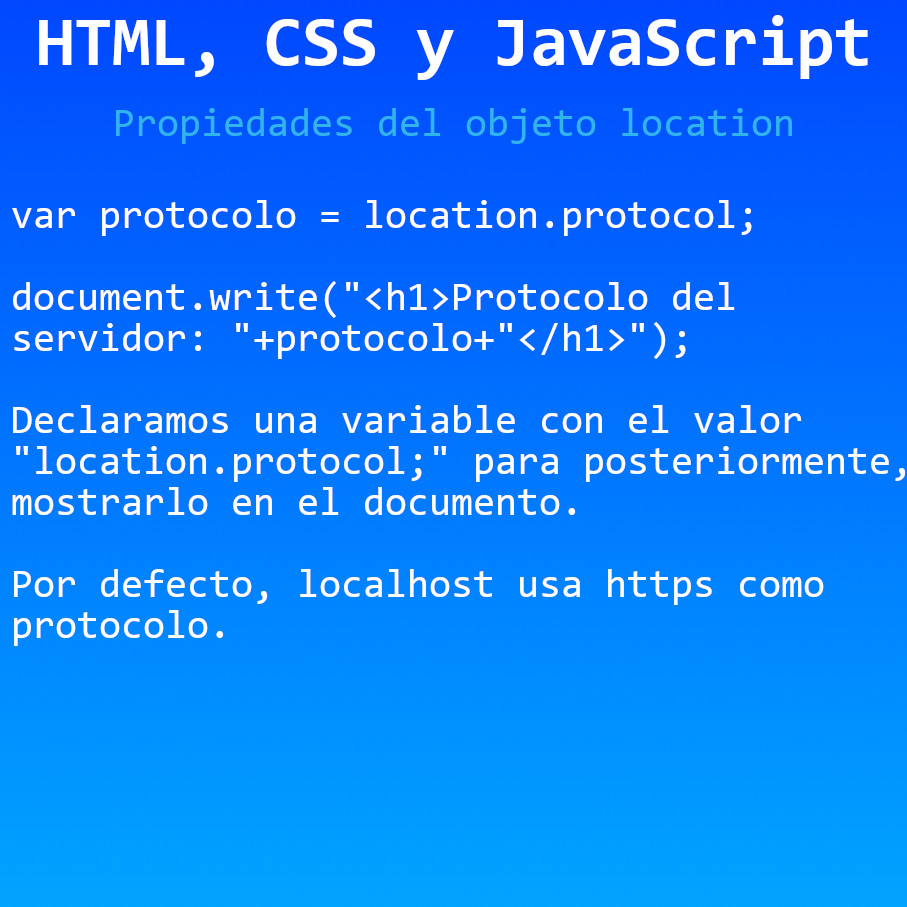
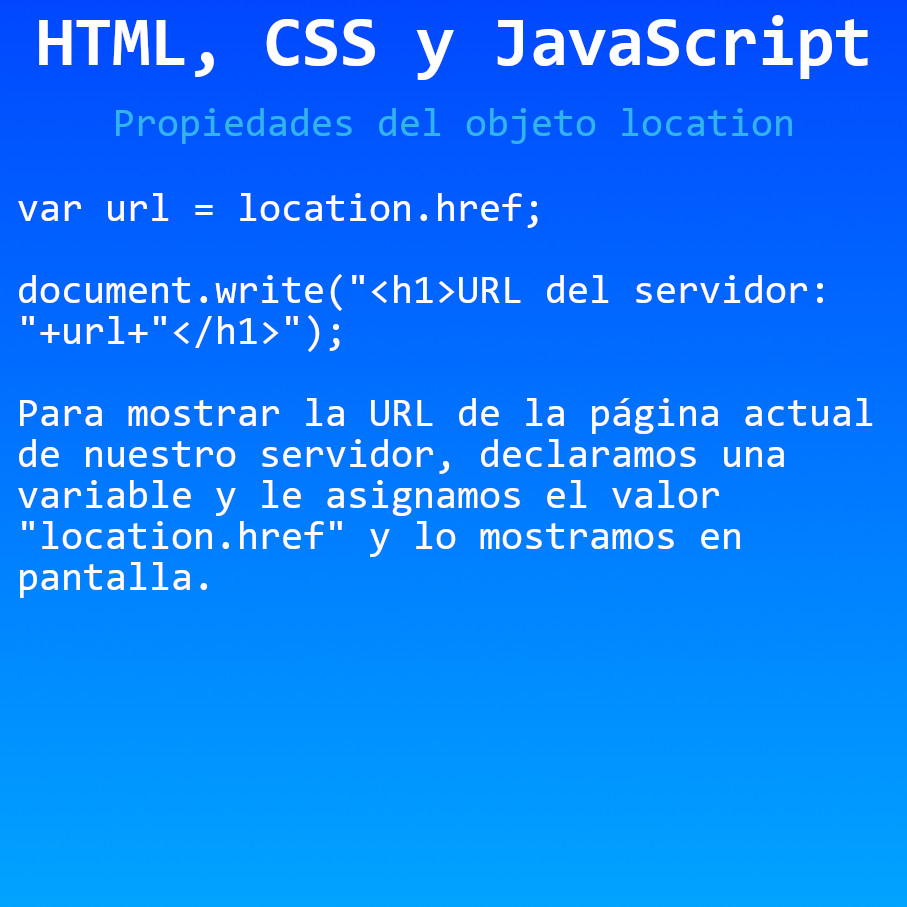
Propiedades del objeto location
Propiedades del objeto location en JavaScript

diff --git a/HTML, CSS y JavaScript/Propiedades del objeto location/js/funciones.js b/HTML, CSS y JavaScript/Propiedades del objeto location/js/funciones.js
@@ -12,15 +12,22 @@ var dir = location.hostname;
 document.write("<h1>Dirección del servidor: "+dir+"</h1>");
 // SEPARACIÓN
 document.write("<hr>");
-// MOSTRAR DIRECCIÓN DE SERVIDOR
+// MOSTRAR PUERTO DE SERVIDOR
 // declarar variable y asignar valor
 var puerto = location.port;
 // mostrar variable
 document.write("<h1>Puerto del servidor: "+puerto+"</h1>");
 // SEPARACIÓN
 document.write("<hr>");
-// MOSTRAR DIRECCIÓN DE SERVIDOR
+// MOSTRAR PROTOCOLO DE SERVIDOR
 // declarar variable y asignar valor
 var protocolo = location.protocol;
 // mostrar variable
 document.write("<h1>Protocolo del servidor: "+protocolo+"</h1>");
+// SEPARACIÓN
+document.write("<hr>");
+// MOSTRAR URL DE SERVIDOR
+// declarar variable y asignar valor
+var url = location.href;
+// mostrar variable
+document.write("<h1>URL del servidor: "+url+"</h1>");
